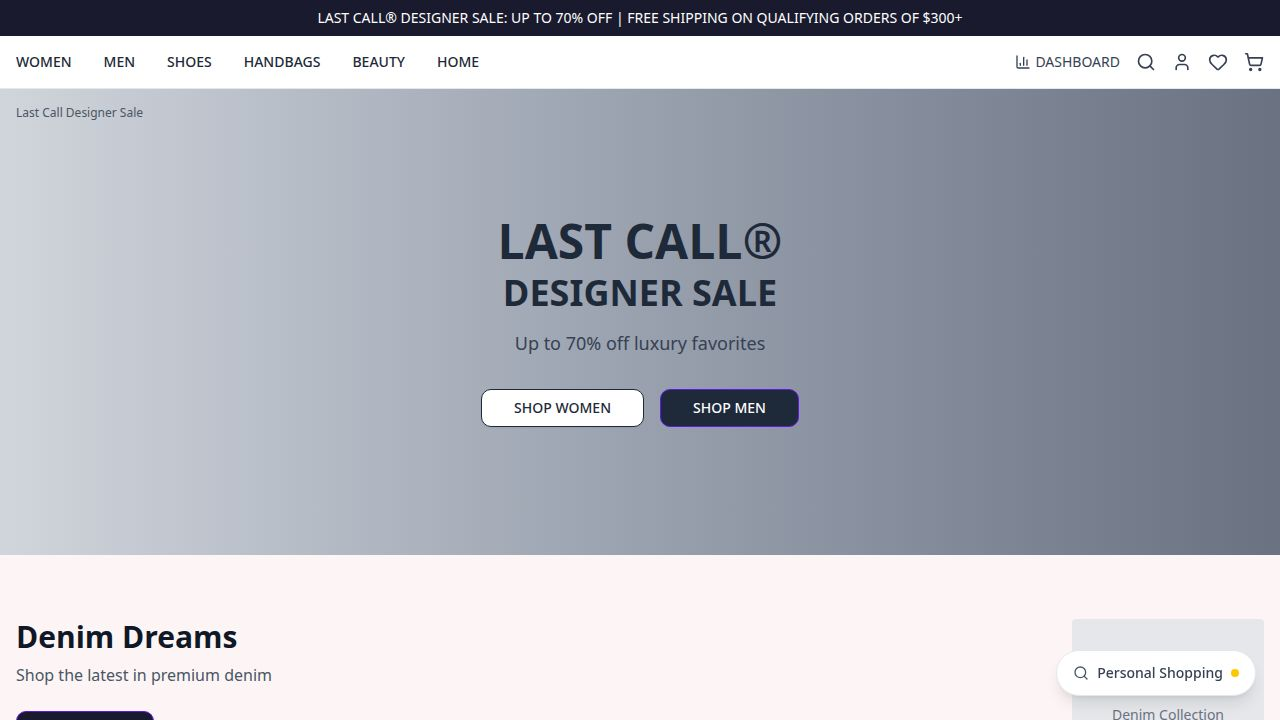
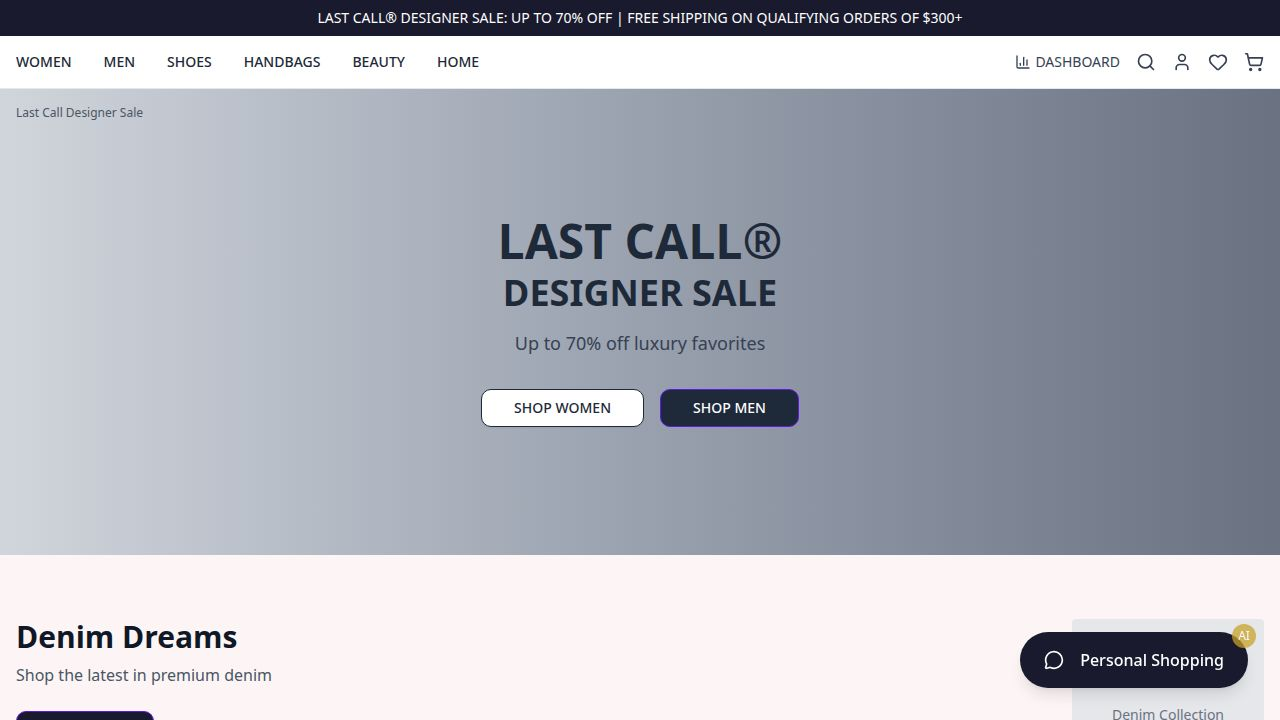
Update chat widget button to match new design specifications
Modify the chat widget button on the home page to include a MessageCircle icon, "Personal Shopping" text, and an AI badge, with updated styling and positioning in `client/src/pages/home.tsx`.

Replit-Commit-Author: Agent
Replit-Commit-Session-Id: 8dd4d209-5b01-43b9-be13-8728d9ea733d
Replit-Commit-Checkpoint-Type: full_checkpoint
Replit-Commit-Event-Id: 30882523-af81-4b6a-ae77-d1053dc0a394
Replit-Commit-Screenshot-Url: https://storage.googleapis.com/screenshot-production-us-central1/6645fff8-d219-409e-8c5c-a441f457799d/8dd4d209-5b01-43b9-be13-8728d9ea733d/HBVik6S
Replit-Helium-Checkpoint-Created: true

Changed region(s): [[0.7812, 0.8556, 1.0, 0.9778]]

diff --git a/client/src/pages/home.tsx b/client/src/pages/home.tsx
@@ -1,5 +1,5 @@
 import { useState } from "react";
-import { Search, Heart, ShoppingCart, BarChart3, User } from "lucide-react";
+import { Search, Heart, ShoppingCart, BarChart3, User, MessageCircle } from "lucide-react";
 import { Button } from "@/components/ui/button";
 import ChatWidget from "@/components/ChatWidget";
 
@@ -118,12 +118,14 @@ export default function HomePage() {
 
       <button
         onClick={() => setIsChatOpen(true)}
-        className="fixed bottom-6 right-6 bg-white shadow-lg rounded-full px-4 py-3 flex items-center gap-2 border border-gray-200 hover:shadow-xl transition-shadow z-40"
+        className="fixed bottom-8 right-8 bg-[#1a1a2e] text-white px-6 py-4 rounded-full shadow-lg hover:bg-[#2a2a3e] transition-all duration-300 z-50 flex items-center gap-2 group"
         data-testid="chat-widget-button"
       >
-        <Search className="w-4 h-4 text-gray-600" />
-        <span className="text-sm font-medium text-gray-700">Personal Shopping</span>
-        <span className="w-2 h-2 bg-yellow-400 rounded-full"></span>
+        <MessageCircle className="w-5 h-5 mr-2" />
+        <span className="font-medium">Personal Shopping</span>
+        <div className="absolute -top-2 -right-2 bg-[#c9a227] text-white text-xs rounded-full w-6 h-6 flex items-center justify-center animate-pulse">
+          AI
+        </div>
       </button>
 
       <ChatWidget isOpen={isChatOpen} onClose={() => setIsChatOpen(false)} />
